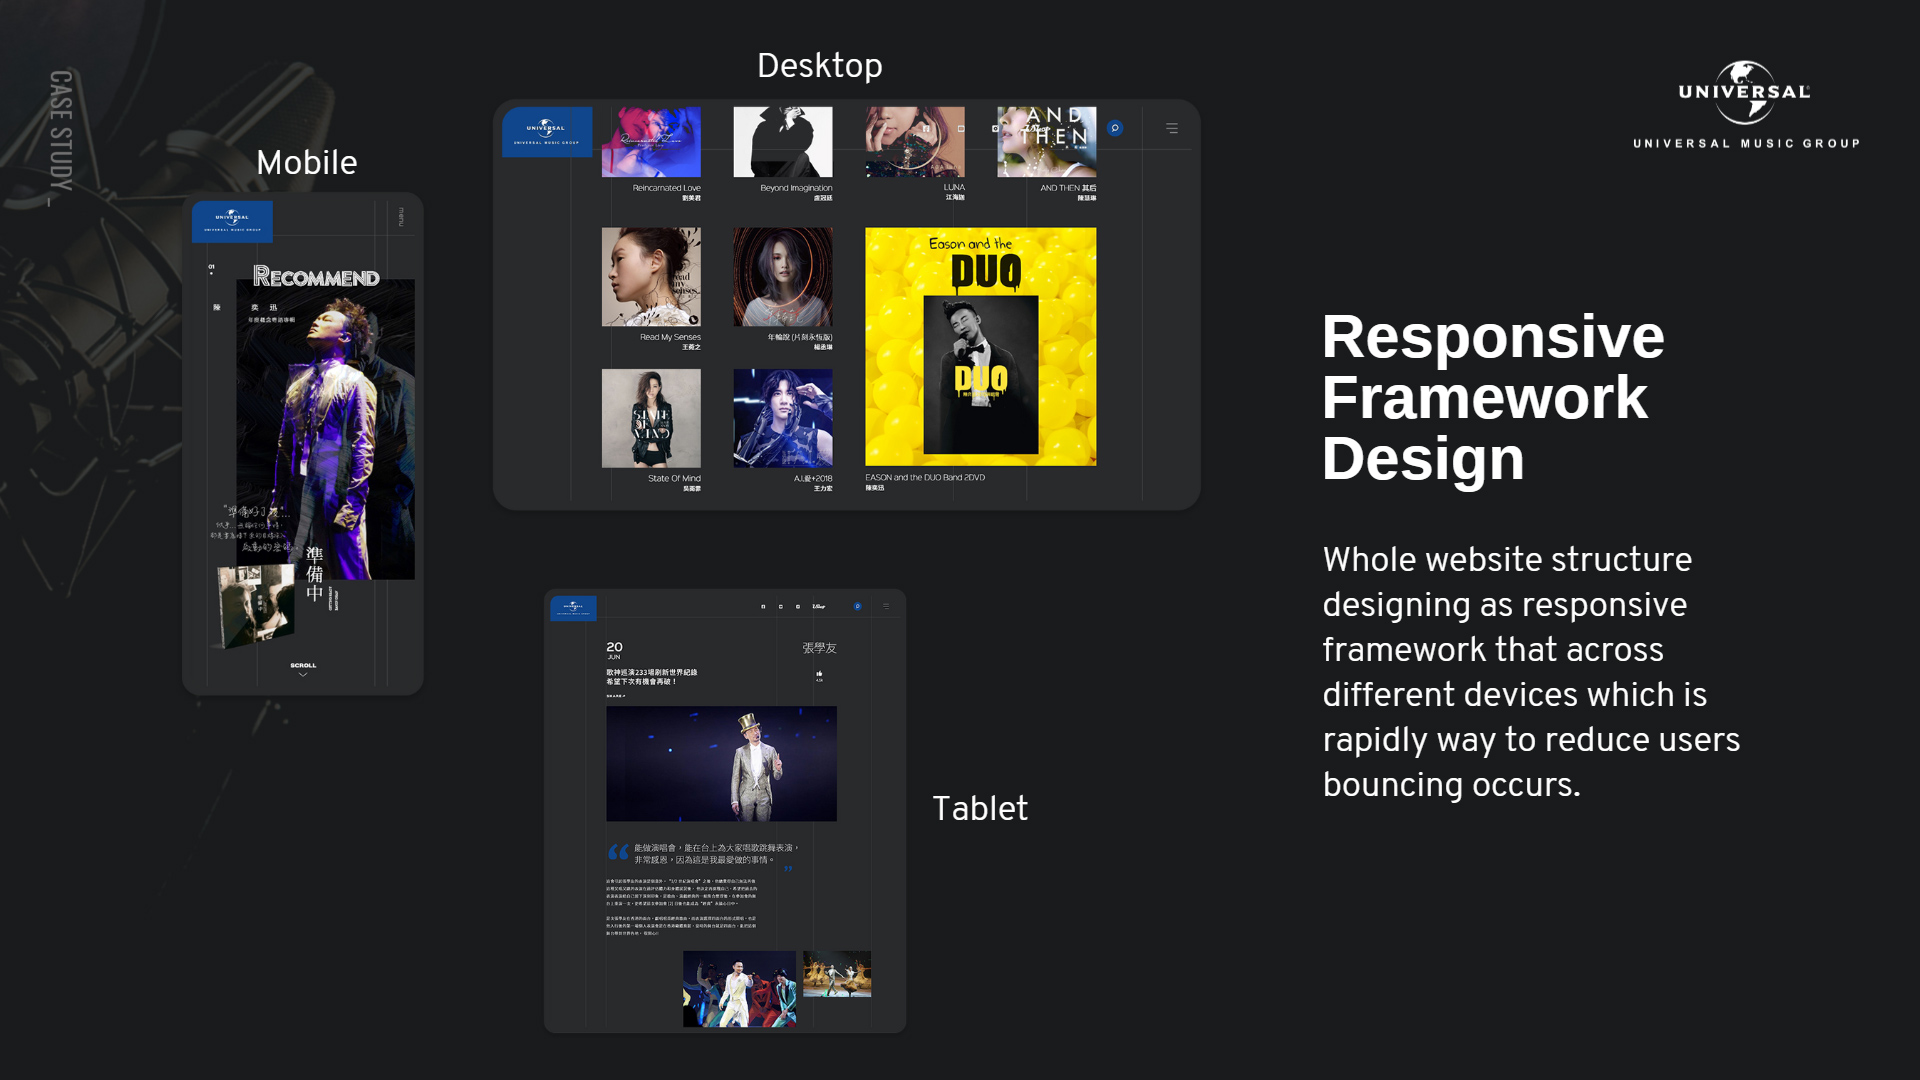
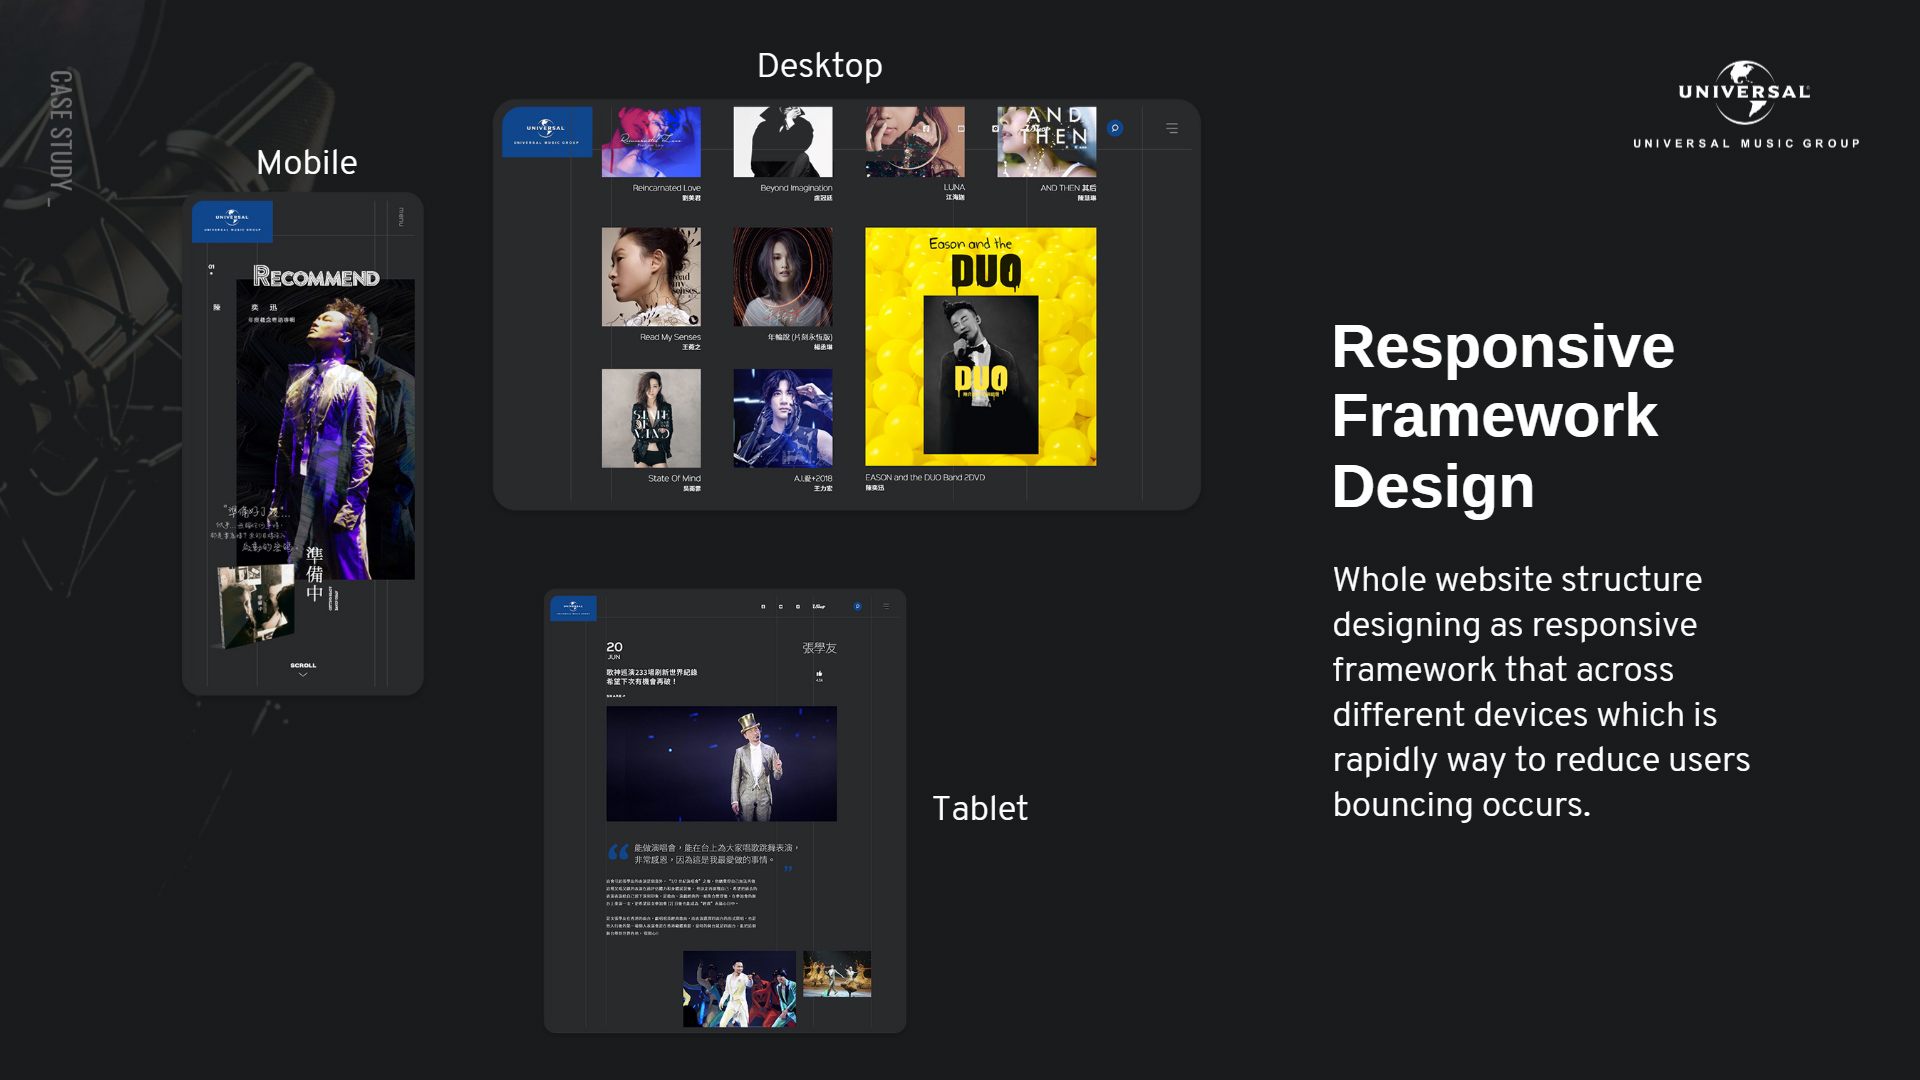
230223_01

Changed region(s): [[0.6875, 0.275, 0.9062, 0.7639]]

diff --git a/umg_case_study.html b/umg_case_study.html
@@ -454,11 +454,12 @@ body, .body {
         <p class=" body spacing-medium">個 Demo, 可以 Click 1下 image Play, click 1下 Paused。 </p>
 
 
-        <p class=" h1 spacing-small">第1個 Prototype係, 以轉化為重點嘅Landing.......呢個Demo展示 重新處理過網站Homepage, 內容層次, 同埋內容嘅表達, 可以睇下Demo先...... </p>
+        <p class=" h1 spacing-small">第1個 Prototype係, 以Landing 去帶動轉化.......呢個Demo展示 重新設計網站嘅內容結構, 同埋內容嘅表達, 可以睇下Demo先...... </p>
 
-        <p class=" body spacing-title">解說Demo: Play and Pause PowerPoint Prototype:</p>
 
-        <p class=" body spacing-small">Landing page 第1部分,  Hero banner, 主打歌手CD, 第2部分 核心內容, 第3部分 音樂特集Slider, 第4部分, 有個試聽 Audio player widget。 之後打開Full page menu, 入去本地歌手CD Page, Click Gin Lee隻CD入去 CD detail page。 再去Ushop.com購買。 Affiliate program合作模式 </p>
+        <!--<p class=" body spacing-title">解說Demo: Play and Pause PowerPoint Prototype:</p>
+
+        <p class=" body spacing-small">Landing page 第1部分,  Hero banner, 主打歌手CD, 第2部分 核心內容, 第3部分 音樂特集Slider, 第4部分, 有個試聽 Audio player widget。 之後打開Full page menu, 入去本地歌手CD Page, Click Gin Lee隻CD入去 CD detail page。 再去Ushop.com購買。 Affiliate program合作模式 </p>-->
 
         <p class=" body spacing-small">(題外話) 呢個Phase 1, Phase 2會合併uShop.com payment platform, 唔洗跳出去uShop.com購買, 變做1個完整e-shop, 有D位傾唔掂, Phase 2就停左。</p>
 
@@ -473,7 +474,7 @@ body, .body {
             2. 吸引User內容。 帶來轉化機會</p>-->
 
 
-        <p class=" body spacing-small">重新設計嘅Landing page 內容層次乾淨清晰, 有四個部分, 文字同圖 比較平衡, 相比舊網站, 少左歌手News, 文字壓迫感, 防止Users登陸時就離開, 可以繼續瀏覽。 </p>
+        <p class=" body spacing-small">重新設計嘅Landing page 內容層次乾淨清晰, 有四個部分, 文字同圖 比例平衡, 相比舊網站, 少左歌手News, 文字壓迫感, 防止Users登陸時就離開, 可以繼續瀏覽。 </p>
 
         <p class=" body spacing-medium">(下一頁 Slide.....)</p>
 
@@ -481,7 +482,9 @@ body, .body {
 
         <p class=" h1 spacing-title">PT_page_28</p>
 
-        <p class=" body spacing-small">係Landing第2部分, 係唱片公司核心內容, 重新設計內容表達,  有唔同Design element 去配合 , 更快地識別 唔同類型內容, 連接目標受眾。 <!--歌手Social feed, 同埋歌手Event 等等。 連接到 需要Social media content觀眾。 帶動番Users繼續瀏覽, 增加多D traffic。--></p>
+        <p class=" h1 spacing-title">Responsive Framework Design</p>
+
+        <p class=" body spacing-small">另外, website 係 Responsive, 可以係唔同 Devices睇到, 咁係最直接, 最快速減低Users Brounding rate嘅方法。</p>
 
         <p class=" body spacing-medium">(下一頁 Slide.....)</p>
 
@@ -489,7 +492,7 @@ body, .body {
 
         <p class=" h1 spacing-title">PT_page_29</p>
 
-        <p class=" body spacing-small">重新設計Menu 係Full screen, 簡化左網站架構, 有1個清晰概覽。 容易瀏覽其餘內容。</p>
+        <p class=" body spacing-small">係Landing第2部分, 係唱片公司核心內容, 重新設計內容表達,  有唔同Design去配合 唔同類型內容, 更快地識別, 連接目標受眾。 <!--歌手Social feed, 同埋歌手Event 等等。 連接到 需要Social media content觀眾。 帶動番Users繼續瀏覽, 增加多D traffic。--></p>
 
         <p class=" body spacing-medium">(下一頁 Slide.....)</p>
 
@@ -497,7 +500,15 @@ body, .body {
 
         <p class=" h1 spacing-title">PT_page_30</p>
 
-        <p class=" body spacing-small">另外, 帶更多Traffic 去Ushop.com 係第2個project goal,  Users係專輯詳情 page, 有個大圓形 CTA button, 可以Click去 CD Shop 到購買CD。 .......(本身係正常round corner button, 似Lable....不過Client......)</p>
+        <p class=" body spacing-small">重新設計Menu 係Full screen, 有1個清晰概覽。 容易瀏覽其餘內容。 ......簡化左網站架構</p>
+
+        <p class=" body spacing-medium">(下一頁 Slide.....)</p>
+
+
+
+        <p class=" h1 spacing-title">PT_page_31</p>
+
+        <p class=" body spacing-small">另外, 第2個Project goal要帶多D Traffic 去Ushop.com,  係專輯詳情, 有個對比大圓形 CTA button, 可以Click去 Ushop.com。 .......(本身係正常round corner button, 似Lable....不過Client......)</p>
 
 
         <!--<p class=" body spacing-small">......講講Landing處理內容, 第3部分, 有個音樂特集 Slider。 要照顧佢地唔同部門持份者, ........UMG其實, boxset, 發燒碟, 紀念專輯好好買, Slider section(加Special特集頁page design)?? 反而local artist銷量唔太好(因多人非法 zip download), 只係剛出碟半年最好,  但boxset, 發燒碟銷量慢慢上升, 買周期長, 會好買過當時eason, 例子鄧麗君boxset, 久石讓...</p>-->
@@ -530,14 +541,7 @@ body, .body {
         <p class=" body spacing-medium">(下一頁 Slide.....)</p>
 
 
-        <p class=" h1 spacing-title">PT_page_33</p>
 
-        <p class=" h1 spacing-title">Responsive
-Framework Design</p>
-
-        <p class=" body spacing-small">首先整個 係 Responsive framework, 可以係唔同 Devices睇到, 咁係最直接 最快速減低Users Brounding rate嘅方法。</p>
-
-        <p class=" body spacing-medium">(下一頁 Slide.....)</p>
 
 
 
